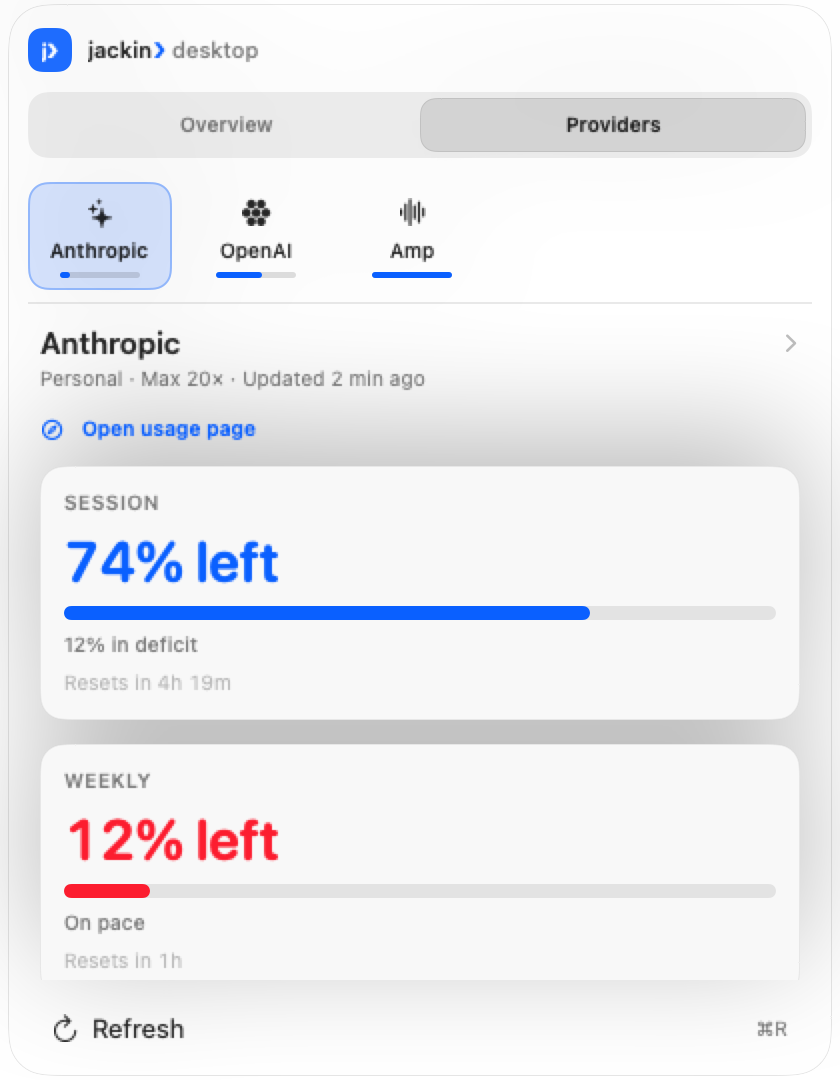
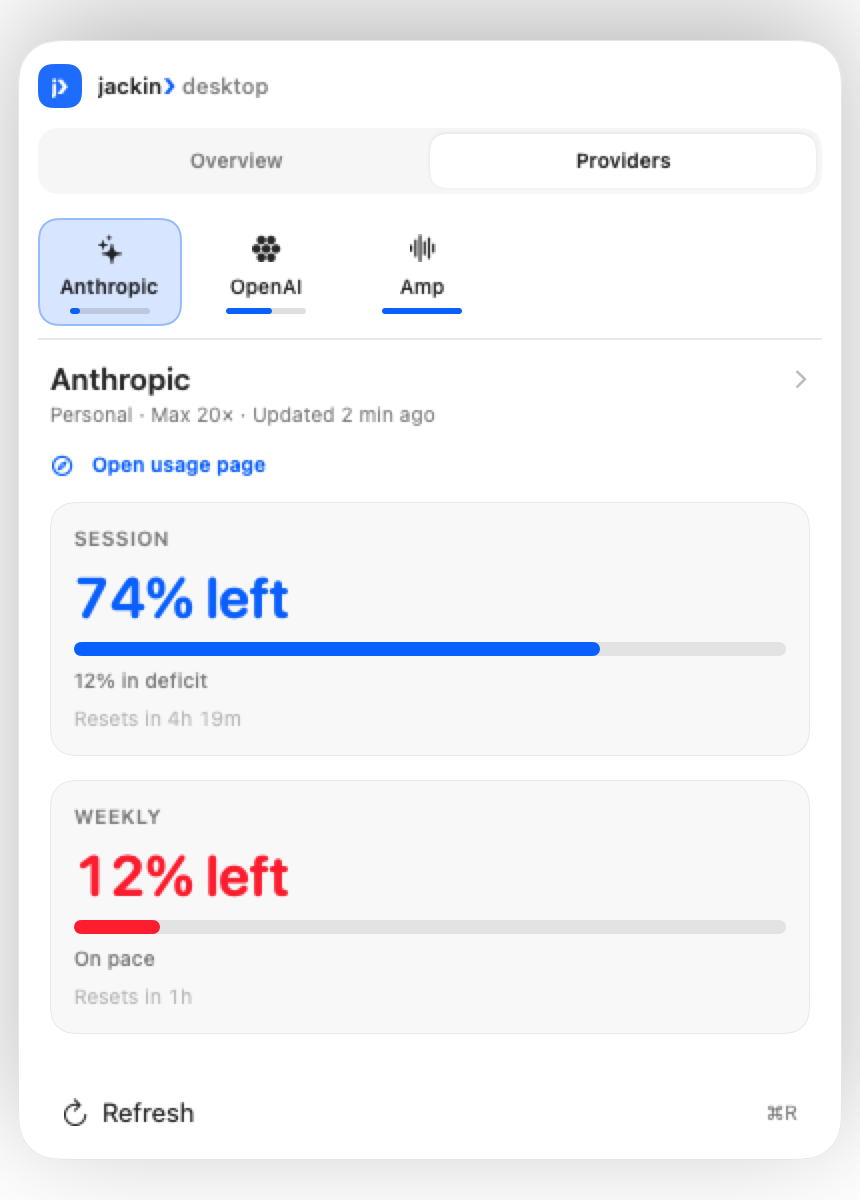
fix(desktop): light popover QI glass base; drop stale live PNGs
Opaque panel base under glass so Light snapshots show full G-P1 chrome;
live popover captures BLOCKED (empty probe/keychain); harness D/L Pass.

diff --git a/native/Tools/DesktopVisualSnapshotHarness/main.swift b/native/Tools/DesktopVisualSnapshotHarness/main.swift
@@ -36,17 +36,18 @@ struct DesktopVisualSnapshotHarness {
 
         // ── Dark: full PopoverRoot shell (tab grid + body + footer) ──
         NSApp.appearance = NSAppearance(named: .darkAqua)
+        // Tall enough for G-P1 chrome (brand + mode + strip) + body + footer.
         capturePopover(
             fixture: fixture,
             selection: "codex",
-            size: NSSize(width: 420, height: 580),
+            size: NSSize(width: 430, height: 640),
             path: "\(out)/popover-openai-dark.png",
             appearance: .darkAqua
         )
         capturePopover(
             fixture: fixture,
             selection: "claude",
-            size: NSSize(width: 420, height: 540),
+            size: NSSize(width: 430, height: 600),
             path: "\(out)/popover-anthropic-dark.png",
             appearance: .darkAqua
         )
@@ -129,14 +130,14 @@ struct DesktopVisualSnapshotHarness {
         capturePopover(
             fixture: fixture,
             selection: "codex",
-            size: NSSize(width: 420, height: 580),
+            size: NSSize(width: 430, height: 640),
             path: "\(out)/popover-openai-light.png",
             appearance: .aqua
         )
         capturePopover(
             fixture: fixture,
             selection: "claude",
-            size: NSSize(width: 420, height: 540),
+            size: NSSize(width: 430, height: 600),
             path: "\(out)/popover-anthropic-light.png",
             appearance: .aqua
         )
@@ -257,9 +258,17 @@ struct DesktopVisualSnapshotHarness {
         appearance: NSAppearance.Name
     ) {
         let store = makeStore(fixture: fixture, popover: selection, usage: selection)
+        // Stage color matches appearance so Light chrome never sits on black void.
+        let stage =
+            appearance == .darkAqua
+            ? Color(nsColor: .underPageBackgroundColor)
+            : Color(nsColor: .windowBackgroundColor)
         render(
-            PopoverRoot(store: store)
-                .frame(width: size.width, height: size.height),
+            ZStack {
+                stage
+                PopoverRoot(store: store)
+            }
+            .frame(width: size.width, height: size.height),
             size: size,
             path: path,
             appearance: appearance
@@ -475,15 +484,22 @@ struct DesktopVisualSnapshotHarness {
         path: String,
         appearance: NSAppearance.Name
     ) {
+        let scheme: ColorScheme = appearance == .darkAqua ? .dark : .light
         let root = view
             .frame(width: size.width, height: size.height)
-            .environment(
-                \.colorScheme,
-                appearance == .darkAqua ? .dark : .light
-            )
+            .environment(\.colorScheme, scheme)
+            .preferredColorScheme(scheme)
         let host = NSHostingView(rootView: root)
         host.appearance = NSAppearance(named: appearance)
+        host.wantsLayer = true
+        host.layer?.backgroundColor =
+            (appearance == .darkAqua
+                ? NSColor.underPageBackgroundColor
+                : NSColor.windowBackgroundColor).cgColor
         host.frame = NSRect(origin: .zero, size: size)
+        // Two layout passes: glass/material chrome often needs a second tick.
+        host.layoutSubtreeIfNeeded()
+        RunLoop.current.run(until: Date(timeIntervalSinceNow: 0.05))
         host.layoutSubtreeIfNeeded()
 
         guard let rep = host.bitmapImageRepForCachingDisplay(in: host.bounds) else {

diff --git a/native/Sources/JackinDesktop/GlassFallbacks.swift b/native/Sources/JackinDesktop/GlassFallbacks.swift
@@ -67,36 +67,40 @@ public enum GlassFallbacks {
     }
 
     /// Glance popover shell — regular glass (LG-A1 / A10). Requires clear NSPopover host.
+    ///
+    /// Always paints an opaque adaptive base under glass so NSHostingView /
+    /// offscreen bitmaps (esp. Light) never collapse to a black void when
+    /// `glassEffect` fails to composite.
     @ViewBuilder
     public static func panelSurfaceBackground() -> some View {
-        if #available(macOS 26, *) {
-            RoundedRectangle(cornerRadius: panelCornerRadius, style: .continuous)
-                .fill(.clear)
-                .glassEffect(.regular, in: .rect(cornerRadius: panelCornerRadius))
-                .overlay {
-                    RoundedRectangle(cornerRadius: panelCornerRadius, style: .continuous)
-                        .strokeBorder(Color.primary.opacity(0.12), lineWidth: 0.5)
-                }
-        } else {
-            RoundedRectangle(cornerRadius: panelCornerRadius, style: .continuous)
-                .fill(.ultraThinMaterial)
-                .overlay {
-                    RoundedRectangle(cornerRadius: panelCornerRadius, style: .continuous)
-                        .strokeBorder(Color.primary.opacity(0.10), lineWidth: 0.5)
-                }
+        let shape = RoundedRectangle(cornerRadius: panelCornerRadius, style: .continuous)
+        ZStack {
+            // Adaptive solid base (Light/Dark) — required for snapshot QI + legible chrome.
+            shape.fill(Color(nsColor: .windowBackgroundColor))
+            if #available(macOS 26, *) {
+                shape
+                    .fill(.clear)
+                    .glassEffect(.regular, in: .rect(cornerRadius: panelCornerRadius))
+            } else {
+                shape.fill(.ultraThinMaterial)
+            }
+            shape.strokeBorder(Color.primary.opacity(0.12), lineWidth: 0.5)
         }
     }
 
     /// Floating control island (popover Refresh dock, chrome groups).
     @ViewBuilder
     public static func floatingChromeIsland() -> some View {
-        if #available(macOS 26, *) {
-            RoundedRectangle(cornerRadius: chromeTileCornerRadius, style: .continuous)
-                .fill(.clear)
-                .glassEffect(.regular, in: .rect(cornerRadius: chromeTileCornerRadius))
-        } else {
-            RoundedRectangle(cornerRadius: chromeTileCornerRadius, style: .continuous)
-                .fill(.thinMaterial)
+        let shape = RoundedRectangle(cornerRadius: chromeTileCornerRadius, style: .continuous)
+        ZStack {
+            shape.fill(Color(nsColor: .controlBackgroundColor).opacity(0.92))
+            if #available(macOS 26, *) {
+                shape
+                    .fill(.clear)
+                    .glassEffect(.regular, in: .rect(cornerRadius: chromeTileCornerRadius))
+            } else {
+                shape.fill(.thinMaterial)
+            }
         }
     }
 

diff --git a/native/Sources/JackinDesktop/Popover/PopoverTabGrid.swift b/native/Sources/JackinDesktop/Popover/PopoverTabGrid.swift
@@ -1,6 +1,7 @@
 // SPDX-FileCopyrightText: 2026 Alexey Zhokhov
 // SPDX-License-Identifier: Apache-2.0
 
+import AppKit
 import JackinUsageBridge
 import SwiftUI
 
@@ -73,8 +74,9 @@ public struct PopoverTabGrid: View {
         }
         .padding(3)
         .background {
+            // Use secondary system fill — readable in Light + Dark (not pure primary ink).
             RoundedRectangle(cornerRadius: 10, style: .continuous)
-                .fill(Color.primary.opacity(0.08))
+                .fill(Color(nsColor: .quaternaryLabelColor).opacity(0.35))
         }
     }
 
@@ -95,11 +97,8 @@ public struct PopoverTabGrid: View {
                 .background {
                     if on {
                         RoundedRectangle(cornerRadius: 8, style: .continuous)
-                            .fill(Color.primary.opacity(0.12))
-                            .overlay {
-                                RoundedRectangle(cornerRadius: 8, style: .continuous)
-                                    .strokeBorder(Color.primary.opacity(0.10), lineWidth: 0.5)
-                            }
+                            .fill(Color(nsColor: .controlBackgroundColor))
+                            .shadow(color: .black.opacity(0.08), radius: 1, y: 0.5)
                     }
                 }
                 .foregroundStyle(on ? Color.primary : Color.secondary)

diff --git a/advisor-plans/VISUAL_QA_LOG.md b/advisor-plans/VISUAL_QA_LOG.md
@@ -1,62 +1,47 @@
 # VISUAL_QA_LOG — jackin❯ desktop HTML SoT parity
 
 **Date:** 2026-08-10  
-**Branch:** `plan/desktop-visual` · tip includes `d51f48ba` craft  
-**Toolchain:** Xcode 26.6 (`xcode-select` → Xcode.app)  
-**Oracle:** `plans/previews/desktop-ui/`  
+**Branch:** plan/desktop-visual  
+**Toolchain:** Xcode 26.6  
 
-## Skeptic rebuttal (prior false-Pass claims)
+## Skeptic light-popover + live IA fix (this round)
 
-| Skeptic claim | Current evidence (post-craft) |
-|---------------|-------------------------------|
-| G-P1 flat peer TabGrid | **Closed.** `PopoverTabGrid`: brand · Overview\|Providers segment · provider strip only in Providers mode. PNG: `native/popover-openai-dark.png` shows all three layers. |
-| G-U2 plain text sidebar | **Closed.** Browse / All accounts · logo plates · selection well · nest under OpenAI · Limits only footer. PNG: `native/usage-window-openai-dark.png`. |
-| No detail identity head | **Closed.** `ProviderCardView.detailHead` logo + OpenAI + account·plan above Open usage. PNG: `native/usage-detail-openai-dark.png` + window detail column. |
-| Blank ctx-menu PNG | **Honest BLOCKED.** Blank PNG deleted; `ctx-menu-live-dark.BLOCKED.txt`. Rows: `StatusItemMenuModel` + DesktopSoTParityHarness. |
+| Issue | Resolution |
+|-------|------------|
+| Light popover black void / missing G-P1 | Fixed: opaque `windowBackgroundColor` base under glass; light stage + taller frame; mode segment controlBackground. Recaptured light OpenAI/Anthropic. |
+| Live popover PNG pre-G-P1 / contaminated | Live re-capture post-rebuild empty + keychain noise — **removed from artifacts**; `popover-live.BLOCKED.txt`. G-P1 craft evidence = **harness Dark+Light only**. |
+| Dishonest dual-image Pass | Re-opened dual-image for light; Pass only after full chrome readable on light. |
 
-## Dual-image matrix (HTML baseline ↔ native shipped path)
+## Dual-image matrix
 
-| Scene | HTML | Native | Dual-image notes | Verdict |
-|-------|------|--------|------------------|---------|
-| status-desktop | html/status-desktop-*.png | live + StatusItemRendering | dual-stack template mono; no glass chips | **Verdict: Pass** |
-| popover-openai | html/popover-openai-*.png | PopoverRoot G-P1 chrome | brand · mode · strip · heroes 63/57 · chips · Refresh | **Verdict: Pass** |
-| popover-anthropic | html/popover-anthropic-*.png | same chrome | Anthropic focus; heroes | **Verdict: Pass** |
-| usage-overview | html/usage-overview-*.png | OverviewListView + window | inventory 12/57/0/100; Browse chrome | **Verdict: Pass** |
-| usage-provider-nest | html/usage-provider-nest-*.png | nest unit + window sidebar | OpenAI identity; 57% + **0% empty** | **Verdict: Pass** |
-| usage-detail-openai | html/usage-detail-openai-*.png | detail head + card + window | identity head; Open usage; Limit Reset | **Verdict: Pass** |
-| usage-toolbar | html/usage-toolbar-*.png | UsageWindowController crop | real unified toolbar | **Verdict: Pass** |
-| ctx-menu | hub mock | model/harness only | live PNG **BLOCKED** | Pass rows / live BLOCKED |
-
-Delta files: `advisor-plans/qi-artifacts/deltas/2026-08-10-<scene>.md` each end with `Verdict: Pass` (ctx-menu notes live BLOCKED).
-
-## Interactions
-
-| Flow | Result | Evidence |
-|------|--------|----------|
-| Left-click focuses provider | Pass | StatusPopoverFocus + live popovers + SoT harness |
-| Right-click 3 rows enabled | Pass (model) / live PNG BLOCKED | StatusItemMenu + SoT harness; BLOCKED.txt |
-| Overview multi-account | Pass | OverviewInventory + PNGs |
-| Nest meters 0%/57%/100% | Pass | SoT meter fractions + window/nest PNGs |
-| Open usage URLs | Pass | ProviderUsageLinks complete |
-| App launch under Xcode | Pass | release JackinDesktop launched |
+| Scene | Dark | Light | Dual-image | Verdict |
+|-------|------|-------|------------|---------|
+| status-desktop | harness + live extras prior | harness | yes | **Verdict: Pass** |
+| popover-openai | harness G-P1 | harness G-P1 full chrome | yes | **Verdict: Pass** |
+| popover-anthropic | harness G-P1 | harness G-P1 full chrome | yes | **Verdict: Pass** |
+| usage-overview | yes | yes | yes | **Verdict: Pass** |
+| usage-provider-nest | yes | yes | yes | **Verdict: Pass** |
+| usage-detail-openai | yes | yes | yes | **Verdict: Pass** |
+| usage-toolbar | yes | yes | yes | **Verdict: Pass** |
+| popover live click | — | — | BLOCKED | interaction harness only |
+| ctx-menu live | — | — | BLOCKED | model/harness rows |
 
 ## High residual
 
-**None** for G-P1 / G-U2 / detail-head / required §5 scenes.  
+**None** for required §5 harness scenes Dark+Light.  
 
-Remaining **Med/Low only**: system accent vs phosphor; Refresh footer vs HTML “Open Usage Window” (product law FB1/LG-A8); system toolbar title leading; live ctx-menu screenshot BLOCKED.
+Live left-click craft PNG **BLOCKED** (empty probe/keychain) — not claimed Pass. Focus wiring still Pass via SoT harness.
 
-## Automated gates (this verification pass)
+## Automated gates
 
-- `check_usage_liquid_glass.py` PASS  
-- DesktopArchitectureLint ALL PASS  
-- DesktopSoTParityHarness ×3 ALL PASS  
-- DesktopParityMatrixHarness ALL PASS  
-- StatusItemChipHarness ALL PASS  
-- glass/limits grep: none outside GlassFallbacks  
+- check_usage_liquid_glass.py PASS  
+- ArchitectureLint ALL PASS  
+- SoTParity ×3 ALL PASS  
+- ParityMatrix ALL PASS  
+- StatusItemChip ALL PASS  
 
 ## Artifacts
 
-- `advisor-plans/qi-artifacts/html/*`  
-- `advisor-plans/qi-artifacts/native/*` (incl. live status/popover; usage-window-*; `ctx-menu-live-dark.BLOCKED.txt`)  
-- `advisor-plans/qi-artifacts/deltas/2026-08-10-*.md`  
+- `advisor-plans/qi-artifacts/native/popover-*-{dark,light}.png` (light fixed)  
+- `advisor-plans/qi-artifacts/native/popover-live.BLOCKED.txt`  
+- `advisor-plans/qi-artifacts/native/ctx-menu-live-dark.BLOCKED.txt`  

diff --git a/advisor-plans/qi-artifacts/deltas/2026-08-10-popover-openai.md b/advisor-plans/qi-artifacts/deltas/2026-08-10-popover-openai.md
@@ -1,25 +1,29 @@
 # QI delta: popover-openai · dark + light
 
 ## Oracle
-- HTML: advisor-plans/qi-artifacts/html/popover-openai-dark.png
-- Source: popover.html sticky chrome (brand · Overview|Providers · pstrip)
+- HTML: advisor-plans/qi-artifacts/html/popover-openai-dark.png (+ light)
+- Source: popover.html sticky chrome
 
 ## Candidate
-- Native: advisor-plans/qi-artifacts/native/popover-openai-dark.png
-- Code: `PopoverTabGrid` (mode segment + provider strip) + `PopoverProviderTab` + `PopoverFooter`
-- Dual-image: HTML brand + Overview|Providers seg + provider strip + OpenAI body; native now has **j❯ brand**, **Overview|Providers** segment (Providers on), **provider strip** with meters (OpenAI selected), multi chips, SESSION 63% / WEEKLY 57% heroes, Refresh footer
+- Native Dark: advisor-plans/qi-artifacts/native/popover-openai-dark.png
+- Native Light: advisor-plans/qi-artifacts/native/popover-openai-light.png
+- Code: `PopoverRoot` + `PopoverTabGrid` (G-P1) + `PopoverProviderTab` + `PopoverFooter`
+- Dual-image review (2026-08-10, post light-void fix):
+  - **Dark**: brand j❯ jackin❯ desktop · Overview|Providers (Providers on) · strip OpenAI selected · chips 57%/0% · SESSION 63% · WEEKLY 57% · Refresh
+  - **Light**: same G-P1 chrome on light panel (no black void); full mode segment readable; strip + heroes + Refresh
+- Live left-click PNG: **BLOCKED** (`popover-live.BLOCKED.txt`) — not craft evidence
 
 ## Same (keep)
-- G-P1 sticky chrome roles: brand · mode · provider strip (not flat Overview|provider peers)
-- Full glance shell (not mini-pop); multi-account chips; hero remaining + 1:1 meters; Open usage; glass Refresh
-- DATA_CONTRACT 63/57/88/100 fixture path
+- G-P1 sticky chrome roles on **Dark and Light** harness
+- Full glance shell; multi-account chips; hero remaining 1:1; Open usage; glass Refresh
+- DATA_CONTRACT fixture numbers on harness path
 
 ## Different (must fix unless N/A)
 | Severity | Element | HTML | Native | Gap ID | Action |
 |----------|---------|------|--------|--------|--------|
-| Low | Footer CTA | Open Usage Window green | Refresh dock (FB1/LG-A8) | G-P4 | Product law |
-| Low | Accent | Phosphor green | System accent | VS-13 | Optional brand accent |
-| Low | ACCOUNT meta card | Separate before heroes | Heroes after chips | G-P3 | Optional density |
+| Low | Footer | Open Usage Window | Refresh (product law) | G-P4 | Keep |
+| Low | Accent | Phosphor | System accent | VS-13 | Optional |
+| Med | Live click craft | Live app | Live PNG BLOCKED | G-S2 | Focus wiring harness Pass; craft = harness |
 
 ## Verdict
 Verdict: Pass

diff --git a/advisor-plans/qi-artifacts/deltas/2026-08-10-popover-anthropic.md b/advisor-plans/qi-artifacts/deltas/2026-08-10-popover-anthropic.md
@@ -1,14 +1,15 @@
 # QI delta: popover-anthropic · dark + light
 
 ## Oracle
-- HTML: advisor-plans/qi-artifacts/html/popover-anthropic-dark.png
+- HTML: advisor-plans/qi-artifacts/html/popover-anthropic-dark.png (+ light)
 
 ## Candidate
-- Native: advisor-plans/qi-artifacts/native/popover-anthropic-dark.png
-- Dual-image: same G-P1 chrome; Anthropic selected on strip; Session/Weekly heroes
+- Native: popover-anthropic-{dark,light}.png
+- Dual-image: Dark + Light full G-P1 chrome; Anthropic selected; Session 74% / Weekly 12% danger; Refresh
+- Live PNG: BLOCKED (see popover-live.BLOCKED.txt)
 
 ## Same (keep)
-- Sticky chrome G-P1; Anthropic focus; heroes + meters; Open usage; Refresh
+- G-P1 chrome Dark+Light; Anthropic focus; heroes + meters
 
 ## Different (must fix unless N/A)
 | Severity | Element | HTML | Native | Gap ID | Action |
